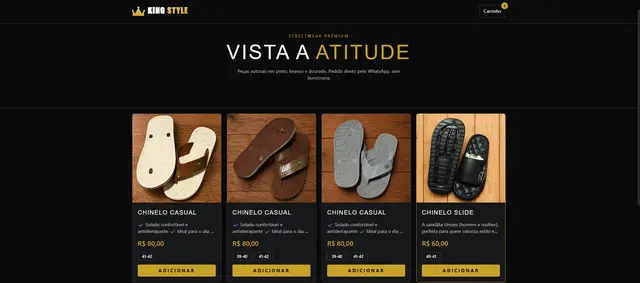
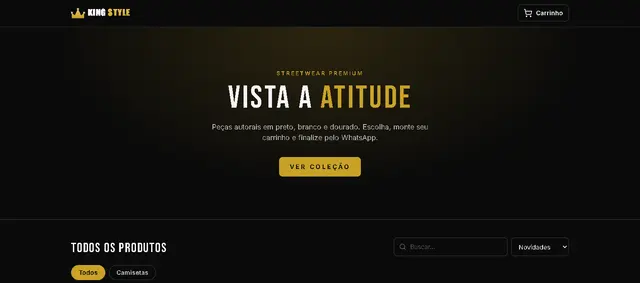
King Style: loja nova em king-style-eight.vercel.app
- Link novo, capa nova e prévia no celular com a página do produto
- Texto com o que a loja nova faz: busca, filtro, ordenação, página de cada
  peça, carrinho que fecha no WhatsApp e painel do dono com login

diff --git a/src/data/links.ts b/src/data/links.ts
@@ -392,34 +392,34 @@ export const projects: Project[] = [
   {
     slug: "king-style",
     name: "King Style",
-    kicker: "O dono cadastra, o cliente compra",
+    kicker: "Streetwear em preto e dourado, com o pedido fechado no WhatsApp",
     type: "Loja virtual",
     category: "loja",
-    client: "Loja de streetwear e calçados",
+    client: "Loja de streetwear",
     summary:
-      "Roupas, relógios e calçados num catálogo com tamanho, numeração e estoque por variação, painel onde o dono configura tudo sozinho e o pedido chegando formatado no WhatsApp.",
+      "Loja de streetwear com busca, filtro por categoria e ordenação por preço. Cada peça tem página própria com foto, tamanho e quantidade; o carrinho junta tudo e fecha o pedido no WhatsApp. O dono cadastra os produtos num painel com login, sem mexer em código.",
     cover: "/projetos/king-style.webp",
     coverSmall: "/projetos/king-style-640.webp",
     mobile: "/projetos/king-style-mobile.webp",
-    live: "https://king-style.netlify.app",
-    hues: ["#D64F7A", "#F2B33D"],
+    live: "https://king-style-eight.vercel.app",
+    hues: ["#D4AF37", "#0B0B0B"],
     solution: [
       {
-        title: "Painel que o dono usa sem manual",
-        body: "Foto, preço e grade de numeração. Cada variação tem o próprio estoque.",
+        title: "Vitrine fácil de explorar",
+        body: "Busca por nome, filtro por categoria e ordenação por novidade ou preço, no celular e no computador.",
       },
       {
-        title: "Só entra no carrinho o que existe",
-        body: "Número e cor escolhidos antes — acabou a conversa de disponibilidade.",
+        title: "Página de cada peça",
+        body: "Foto grande, tamanho, quantidade e descrição. Dá para adicionar ao carrinho ou comprar na hora.",
       },
       {
-        title: "Pedido pronto no WhatsApp",
-        body: "Modelo, numeração, cor, total e entrega, sem digitar nada de novo.",
+        title: "Painel do dono e pedido no WhatsApp",
+        body: "O dono entra com login e cadastra os produtos sozinho. O pedido chega no WhatsApp com peça, tamanho, quantidade e total.",
       },
     ],
     stack: ["React", "TypeScript", "Tailwind", "Zustand", "Supabase"],
     results: [
-      { value: "Estoque", label: "por número e cor" },
+      { value: "Painel", label: "o dono cadastra sozinho" },
       { value: "0", label: "dependência de mim" },
       { value: "WhatsApp", label: "pedido formatado" },
     ],
